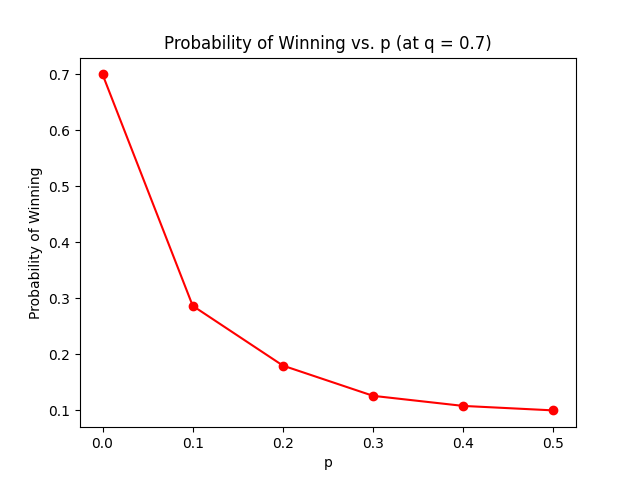
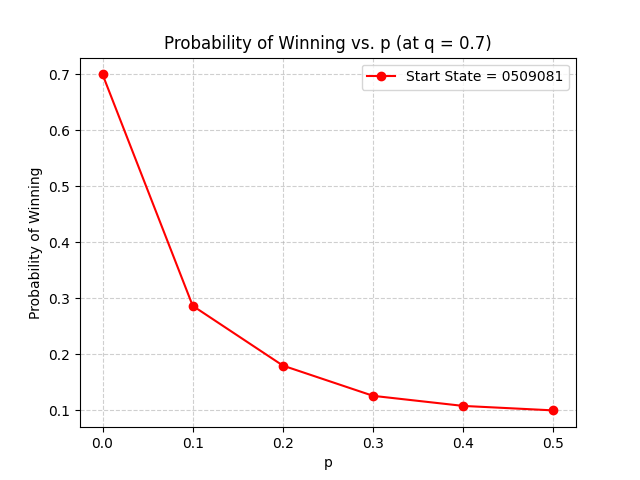
added plots

Changed region(s): [[0.5625, 0.125, 0.875, 0.1875]]

diff --git a/Assignment2/encoder.py b/Assignment2/encoder.py
@@ -7,6 +7,11 @@ def y_corr(pos):
 def x_corr(pos):
     return (pos-1)%4
 
+# Function to get index of a given state
+def state_to_index(x):
+    b1, b2, r, possession = int(x[:2]), int(x[2:4]), int(x[4:6]), int(x[6])
+    return (b1-1)*512 + (b2-1)*32 + (r-1)*2 + (possession-1)
+
 parser = argparse.ArgumentParser(description="MDP ENCODER")
 parser.add_argument("--opponent", type=str, help="Path to opponent policy file", required=True)
 parser.add_argument("--p", type=float, help="Paramter p", required=True)
@@ -22,7 +27,6 @@ mdptype = "episodic"
 gamma = 1
 
 opponent_policy = dict()
-states_index = dict()
 
 with open(args.opponent, 'r') as fp:
     for line in fp:
@@ -35,7 +39,6 @@ states = []
 index = 0
 for state in opponent_policy.keys():
     states.append(state)
-    states_index[state] = index
     index += 1
 
 movement = {0:-1, 1:1, 2:-4, 3:4}
@@ -95,8 +98,8 @@ for s in range(numStates-2):
                     next_state1 = next_state[:4] + "0" + str(r_pos) + next_state[6]
                 else:
                     next_state1 = next_state[:4] + str(r_pos) + next_state[6]
-            if states_index[next_state1] not in transition.keys():
-                transition[states_index[next_state1]] = 0
+            if state_to_index(next_state1) not in transition.keys():
+                transition[state_to_index(next_state1)] = 0
             if action in range(4): # b1 moves 
                 if states[s][6] == "1":
                     t1 = 1 - 2*p
@@ -148,7 +151,7 @@ for s in range(numStates-2):
             t1 = t1 * opponent_policy[states[s]][r_action]
             t2 = t2 * opponent_policy[states[s]][r_action]
             if action != 9:
-                transition[states_index[next_state1]] += t1
+                transition[state_to_index(next_state1)] += t1
             else:
                 transition[endStates[0]] += t1
             transition[endStates[1]] += t2

diff --git a/Assignment2/graph.py b/Assignment2/graph.py
@@ -36,7 +36,7 @@ q2 = [0.6, 0.7, 0.8, 0.9, 1]
 prob1 = []  
 prob2 = []  
 start_state_ = "0509081"
-print("Start State: ", start_state_)
+print("Start State:", start_state_)
 start_state = state_to_index(start_state_)
 in_file = "data/football/test-1.txt"
 
@@ -54,8 +54,8 @@ for q in q2:
     output.remove('')
     prob2.append(float(output[start_state].split(' ')[2]))
 
-print("Winning Probabilities of Graph1",prob1)
-print("Winning Probabilities of Graph2",prob2)
+print("Winning Probabilities of Graph1 = ",prob1)
+print("Winning Probabilities of Graph2 = ",prob2)
 
 # Graph 1
 plt.figure(1)
@@ -63,9 +63,10 @@ plt.plot(p1, prob1, marker='o', linestyle='-',color='red', label="Start State = 
 plt.title("Probability of Winning vs. p (at q = " + str(q1) + ")")
 plt.xlabel("p")
 plt.ylabel("Probability of Winning")
-plt.savefig("graph1.png")
-plt.grid(True)
+plt.grid(True, linestyle='--', alpha=0.6)
+plt.tick_params(axis='both', which='major', labelsize=10)
 plt.legend()
+plt.savefig("graph1.png")
 
 # Graph 2
 plt.figure(2)
@@ -73,8 +74,9 @@ plt.plot(q2, prob2, marker='o', linestyle='-', label="Start State = " + start_st
 plt.title("Probability of Winning vs. q (at p = " + str(p2) + ")")
 plt.xlabel("q")
 plt.ylabel("Probability of Winning")
-plt.savefig("graph2.png")
-plt.grid(True)
+plt.grid(True, linestyle='--', alpha=0.6)
+plt.tick_params(axis='both', which='major', labelsize=10)
 plt.legend()
+plt.savefig("graph2.png")
 
 plt.show()
